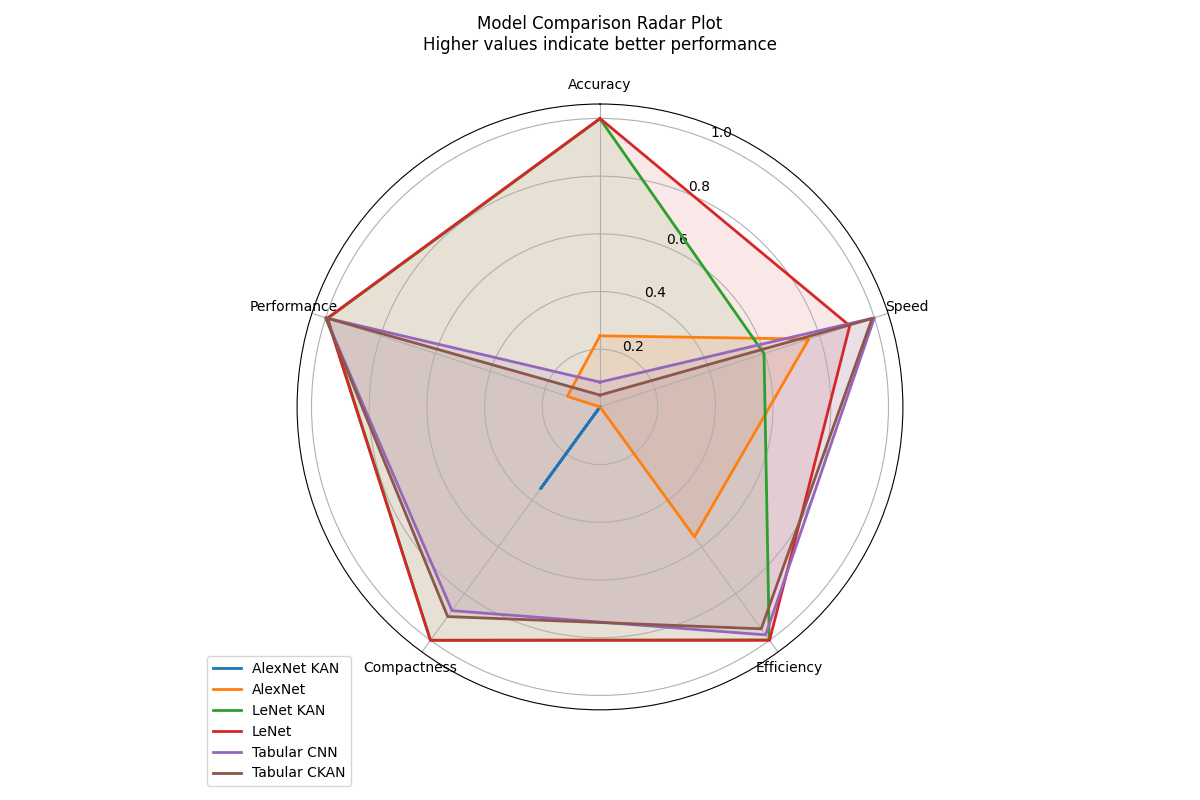
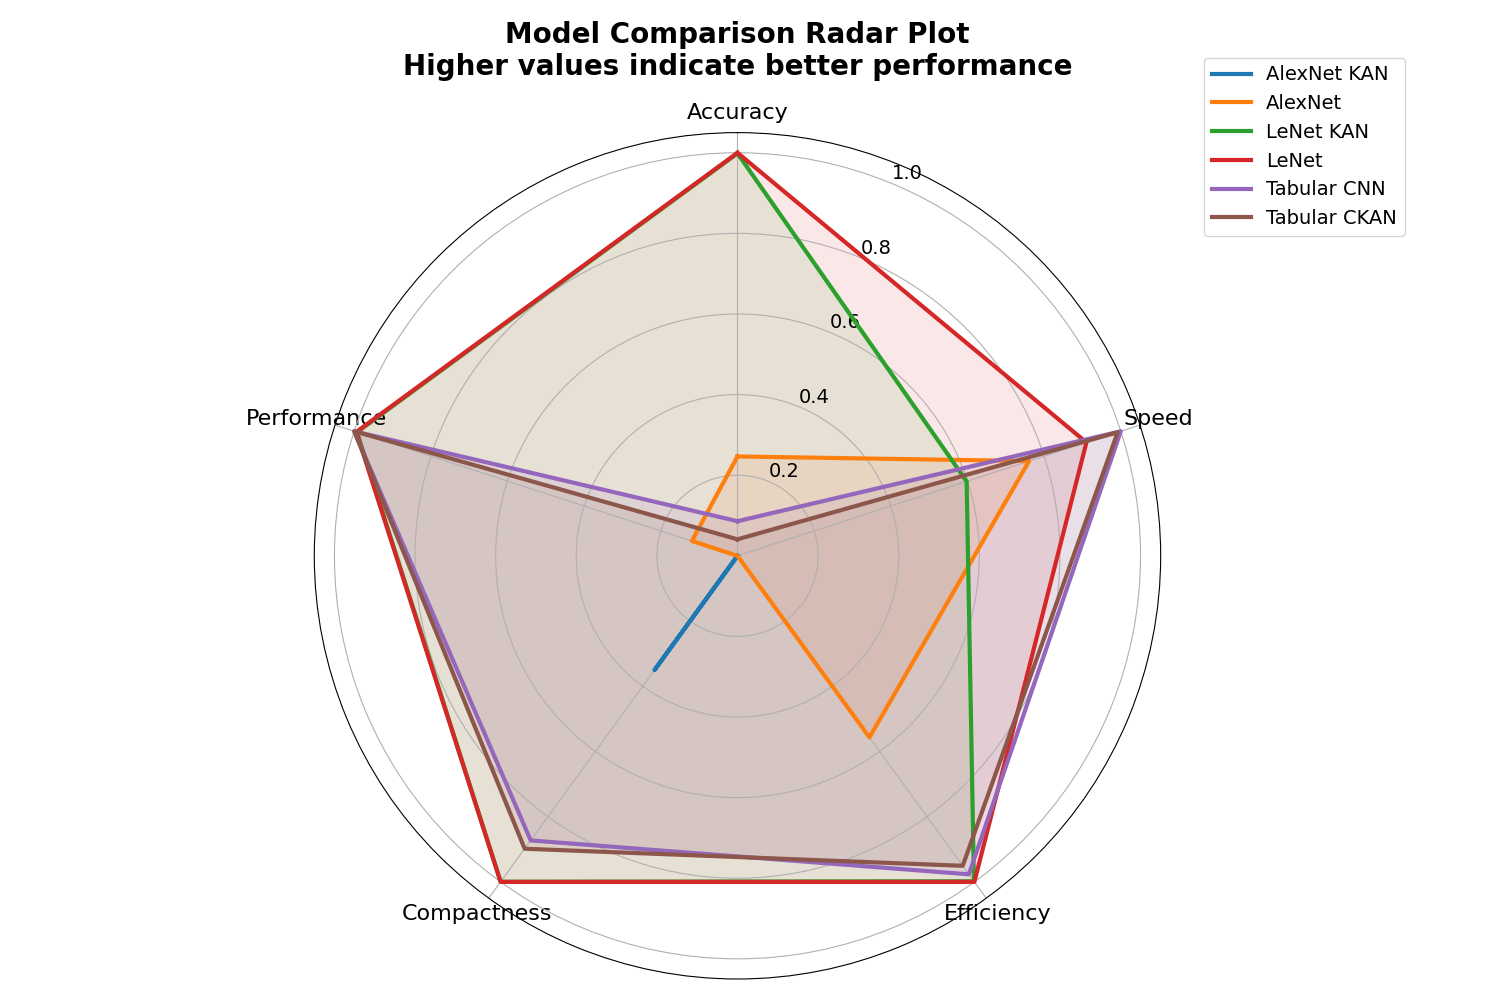
feat: bigger font for the radar plot

diff --git a/scripts/radar_plot.py b/scripts/radar_plot.py
@@ -3,6 +3,15 @@ import pandas as pd
 import matplotlib.pyplot as plt
 import seaborn as sns
 
+# Set the font sizes
+TITLE_SIZE = 20 
+LABEL_SIZE = 16
+TICK_SIZE = 14
+LEGEND_SIZE = 14
+
+# Set the general font size
+plt.rcParams['font.size'] = TICK_SIZE
+
 # Data dictionary with all models and their metrics
 data = {
     'AlexNet KAN': {
@@ -91,15 +100,15 @@ N = len(categories)
 angles = [n / float(N) * 2 * np.pi for n in range(N)]
 angles += angles[:1]
 
-# Create the plot
-plt.figure(figsize=(12, 8))
+# Create the plot with larger figure size
+plt.figure(figsize=(15, 10))
 ax = plt.subplot(111, polar=True)
 
-# Plot data
+# Plot data with thicker lines
 for idx, model in enumerate(normalized_df.index):
     values = normalized_df.loc[model].values.flatten().tolist()
     values += values[:1]
-    ax.plot(angles, values, linewidth=2, linestyle='solid', label=model)
+    ax.plot(angles, values, linewidth=3, linestyle='solid', label=model)
     ax.fill(angles, values, alpha=0.1)
 
 # Fix axis to go in the right order and start at 12 o'clock
@@ -108,12 +117,17 @@ ax.set_theta_direction(-1)
 
 # Draw axis lines for each angle and label
 ax.set_xticks(angles[:-1])
-ax.set_xticklabels(categories)
+ax.set_xticklabels(categories, size=LABEL_SIZE)
 
-# Add legend
-plt.legend(loc='upper right', bbox_to_anchor=(0.1, 0.1))
+# Increase tick label size
+ax.tick_params(axis='y', labelsize=TICK_SIZE)
 
-plt.title("Model Comparison Radar Plot\nHigher values indicate better performance", pad=20)
+# Add legend with larger font in the top right
+plt.legend(loc='upper right', bbox_to_anchor=(1.3, 1.1), fontsize=LEGEND_SIZE)
+
+# Add title with larger font
+plt.title("Model Comparison Radar Plot\nHigher values indicate better performance", 
+          pad=20, size=TITLE_SIZE, weight='bold')
 
 # Add gridlines
 ax.grid(True)
